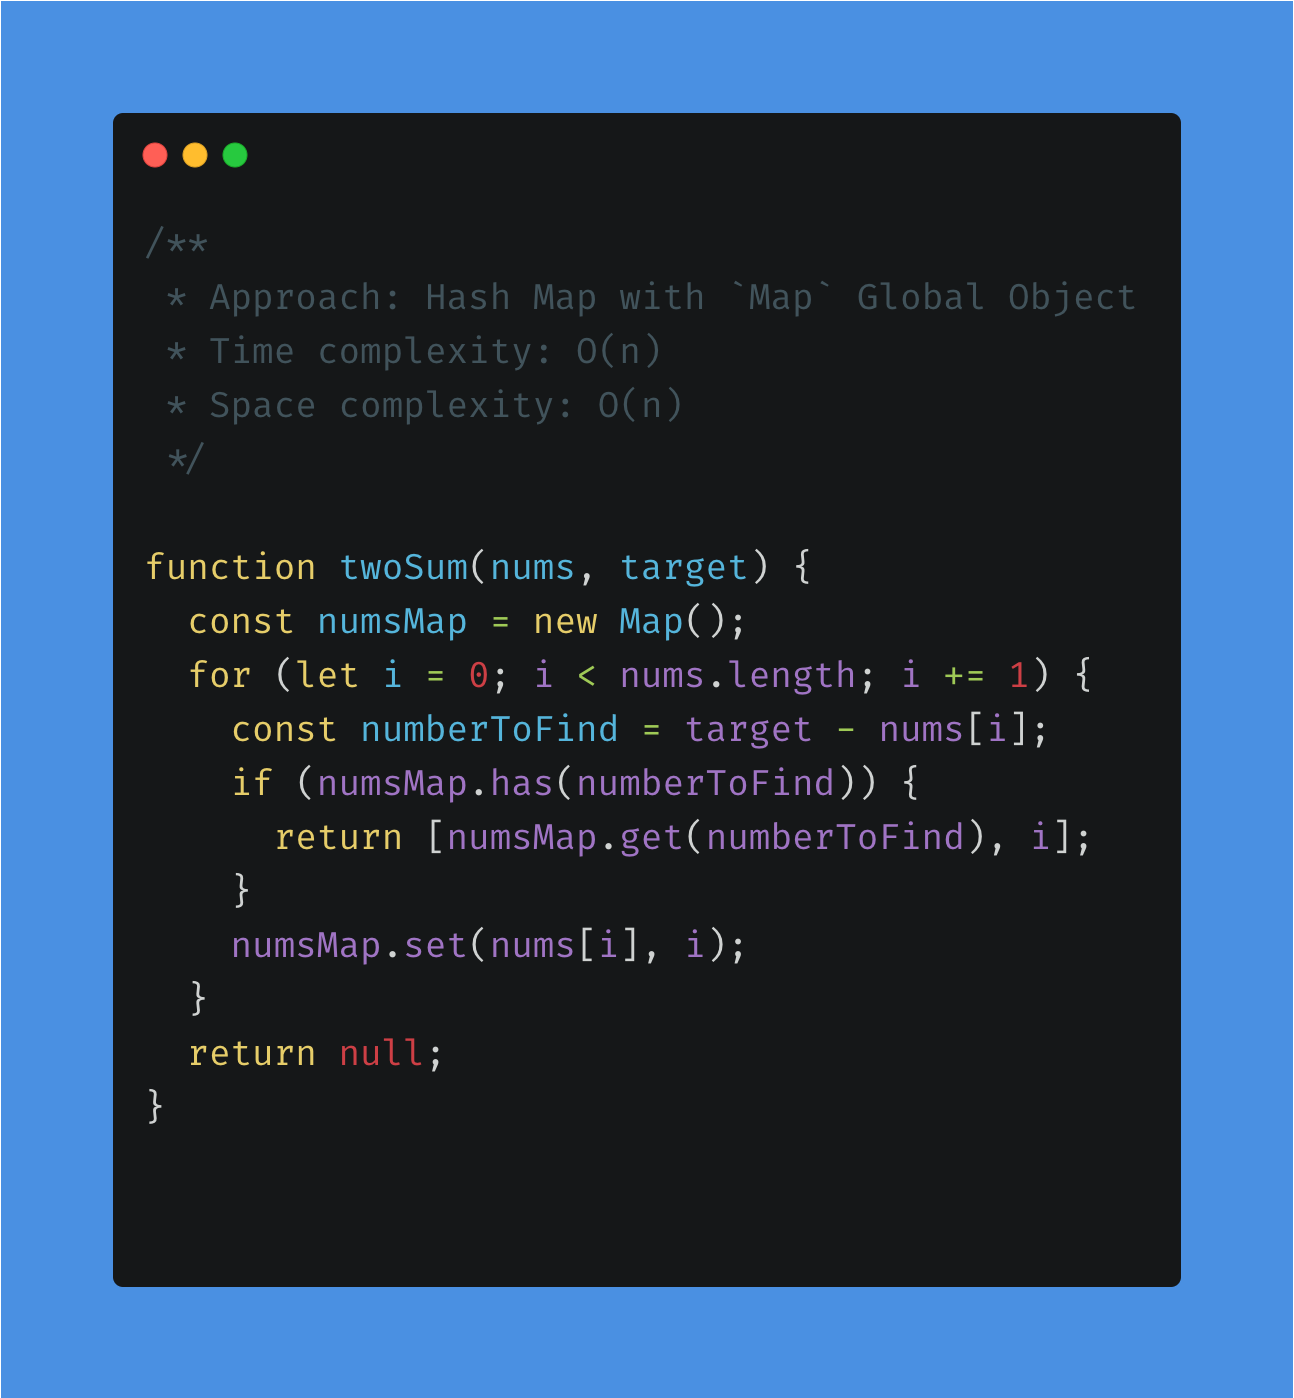
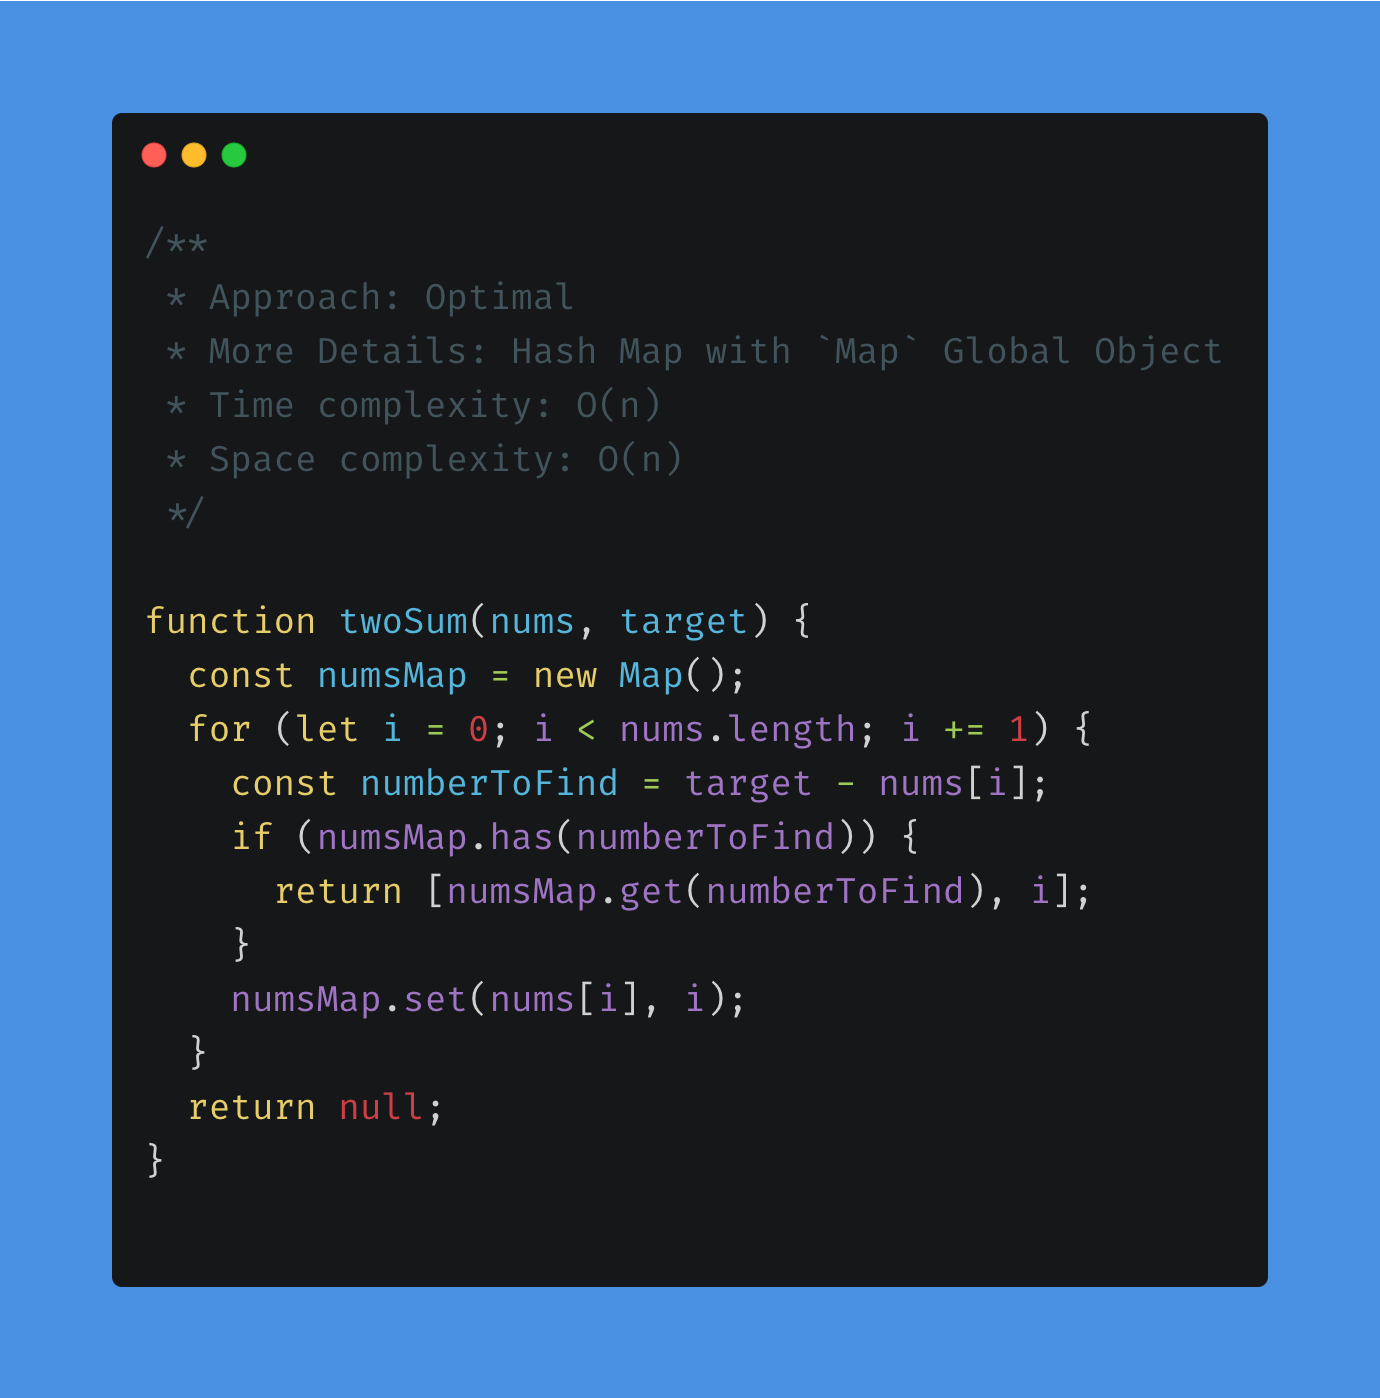
Update Code Comments & Images

diff --git a/101-leetcode/001/solution.js b/101-leetcode/001/solution.js
@@ -35,7 +35,8 @@ console.log("\n================================\n");
 
 {
   /**
-   * Approach: Hash Map
+   * Approach: Optimal
+   * More Details: Hash Map
    * Time complexity: O(n)
    * Space complexity: O(n)
    */
@@ -66,7 +67,8 @@ console.log("\n================================\n");
 
 {
   /**
-   * Approach: Hash Map with `Map` Global Object
+   * Approach: Optimal
+   * More Details: Hash Map with `Map` Global Object
    * https://developer.mozilla.org/en-US/docs/Web/JavaScript/Reference/Global_Objects/Map
    * Time complexity: O(n)
    * Space complexity: O(n)

diff --git a/101-leetcode/001/carbon/003.js b/101-leetcode/001/carbon/003.js
@@ -1,5 +1,6 @@
 /**
- * Approach: Hash Map with `Map` Global Object
+ * Approach: Optimal
+ * More Details: Hash Map with `Map` Global Object
  * Time complexity: O(n)
  * Space complexity: O(n)
  */

diff --git a/101-leetcode/001/carbon/002.js b/101-leetcode/001/carbon/002.js
@@ -1,5 +1,6 @@
 /**
- * Approach: Hash Map
+ * Approach: Optimal
+ * More Details: Hash Map
  * Time complexity: O(n)
  * Space complexity: O(n)
  */
